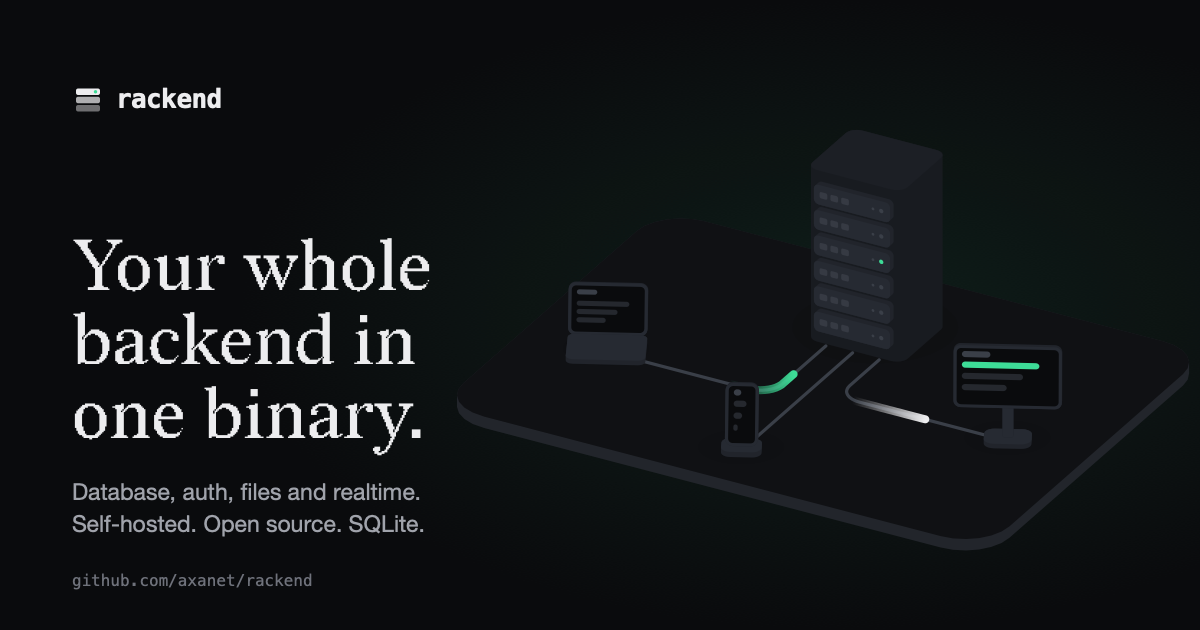
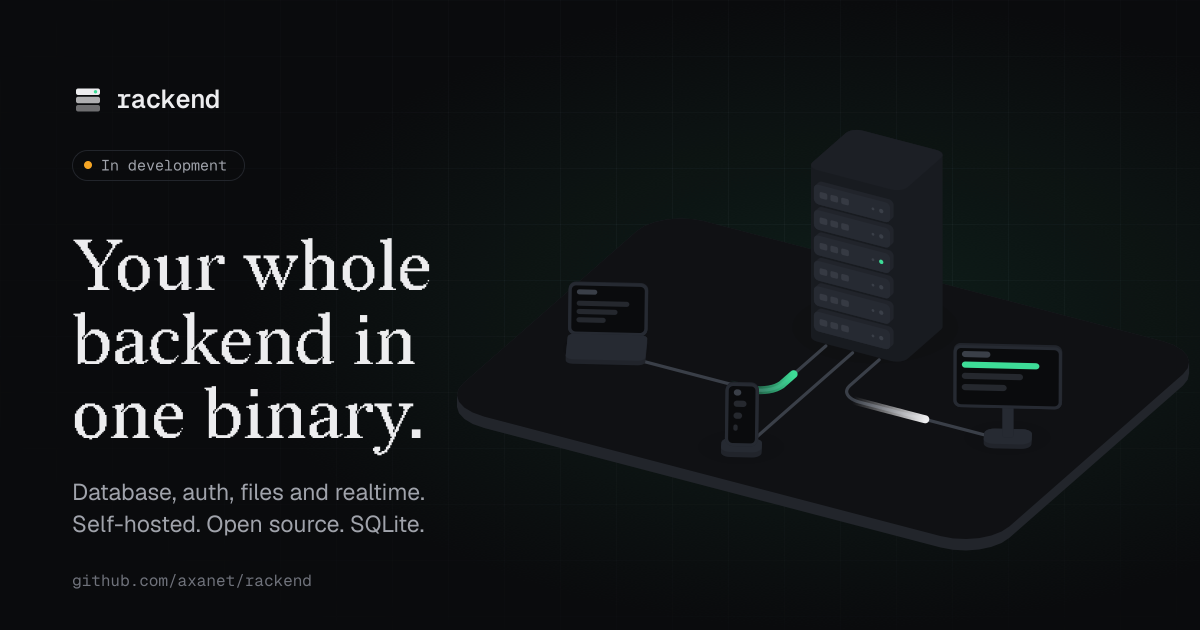
feat: link the 0.0.1 release, docs and changelog; brand fonts in the OG image
The hero pill shows the latest release and links its notes; the run
command pins its x.y image tag, as the docs do. Docs and Changelog link
to the now public repository instead of "soon". The quick start no
longer offers a binary download (releases ship the image) and shows the
server's real log lines; the storage list matches the deployment docs.

The OG image draws all text from Geist and Redaction outlines (static
Geist WOFF files from fontsource), adds the hero's status pill and grid,
and `bun scripts/og.ts out.png 1280x640` renders the GitHub social
preview of the main repository.

diff --git a/scripts/og.ts b/scripts/og.ts
@@ -1,13 +1,29 @@
 // Generates public/og.png (SVG rasterised with macOS `sips`) from the hero
-// scene. Run with `mise run og`.
+// scene. Run with `mise run og`. All text is drawn as outlines from the brand
+// fonts (sips can't load web fonts), so the card matches the site and the
+// README banner of the main repository.
+//
+//   bun scripts/og.ts [out.png] [WIDTHxHEIGHT]
+//
+// Defaults to public/og.png at 1200x630. The GitHub social preview of the
+// main repository is the same card at 1280x640:
+//   bun scripts/og.ts social-preview.png 1280x640
 import { $ } from "bun";
 import { tmpdir } from "node:os";
 import { join } from "node:path";
 import opentype from "opentype.js";
+import { SITE } from "../src/config/site";
 import { renderDiagram } from "../src/visual/diagram";
 
-const W = 1200, H = 630;
-const C = { bg: "#0a0b0d", fg: "#ededef", muted: "#a0a3ab", subtle: "#6f727b", accent: "#3ddc97" };
+const out = process.argv[2] ?? new URL("../public/og.png", import.meta.url).pathname;
+const [W, H] = (process.argv[3] ?? "1200x630").split("x").map(Number) as [number, number];
+// the layout is drawn for 1200x630; other sizes keep it centred vertically
+const dy = Math.round((H - 630) / 2);
+
+const C = {
+  bg: "#0a0b0d", fg: "#ededef", muted: "#a0a3ab", subtle: "#6f727b", accent: "#3ddc97", write: "#f5a524",
+  border: "#22252b", grid: "#16181c",
+};
 
 // the scene, drawn in the right-hand ~60% of the card
 const SCENE_W = 760;
@@ -24,40 +40,69 @@ const scene = renderDiagram(
     resp: C.fg,
     event: "#a78bfa",
   },
-  { width: SCENE_W, height: H, offset: [0, 10] },
+  { width: SCENE_W, height: 630, offset: [0, 10] },
 );
 
-const sans = `'Helvetica Neue', Helvetica, Arial, sans-serif`;
-// sips can't load web fonts, so the headline is drawn as outlines from the original OTF
-const display = opentype.loadSync(new URL("../src/assets/fonts/redaction/Redaction20-Regular.otf", import.meta.url).pathname);
-const mono = `Menlo, 'SF Mono', monospace`;
+const font = (path: string) => opentype.loadSync(new URL(path, import.meta.url).pathname);
+const display = font("../src/assets/fonts/redaction/Redaction20-Regular.otf");
+const sans = font("../node_modules/@fontsource/geist/files/geist-latin-400-normal.woff");
+const mono = font("../node_modules/@fontsource/geist-mono/files/geist-mono-latin-400-normal.woff");
+const monoSemi = font("../node_modules/@fontsource/geist-mono/files/geist-mono-latin-600-normal.woff");
+
+/** Text as an outline; `tracking` in em, as CSS letter-spacing. */
+const text = (f: opentype.Font, s: string, x: number, y: number, size: number, fill: string, tracking = 0) => {
+  let d = "";
+  let cx = x;
+  const glyphs = f.stringToGlyphs(s);
+  glyphs.forEach((g, i) => {
+    d += g.getPath(cx, y, size).toPathData(2);
+    cx += (g.advanceWidth! / f.unitsPerEm) * size + tracking * size;
+    const next = glyphs[i + 1];
+    if (next) cx += (f.getKerningValue(g, next) / f.unitsPerEm) * size;
+  });
+  return `<path d="${d}" fill="${fill}"/>`;
+};
+
+// status pill, as in the hero (without the release: the card outlives it)
+const pill = SITE.status ?? "";
+const pillSize = 15;
+const pillW = mono.getAdvanceWidth(pill, pillSize) + 46;
+const pillY = 150;
 
 const svg = `<svg xmlns="http://www.w3.org/2000/svg" width="${W}" height="${H}" viewBox="0 0 ${W} ${H}">
   <defs>
+    <pattern id="grid" width="56" height="56" patternUnits="userSpaceOnUse"><path d="M56 0H0V56" fill="none" stroke="${C.grid}" stroke-width="1"/></pattern>
+    <radialGradient id="fade" cx="62%" cy="40%" r="70%"><stop offset=".25" stop-color="#fff"/><stop offset="1" stop-color="#fff" stop-opacity="0"/></radialGradient>
+    <mask id="gridmask"><rect width="${W}" height="${H}" fill="url(#fade)"/></mask>
     <radialGradient id="glow" cx="70%" cy="50%" r="50%"><stop offset="0" stop-color="${C.accent}" stop-opacity=".09"/><stop offset="1" stop-color="${C.accent}" stop-opacity="0"/></radialGradient>
   </defs>
   <rect width="${W}" height="${H}" fill="${C.bg}"/>
+  <rect width="${W}" height="${H}" fill="url(#grid)" mask="url(#gridmask)"/>
   <rect width="${W}" height="${H}" fill="url(#glow)"/>
-  <g transform="translate(${W - SCENE_W + 10} 0)">${scene}</g>
+  <g transform="translate(${W - SCENE_W + 10} ${dy})">${scene}</g>
 
-  <g transform="translate(72 84)">
-    <rect x="4" y="4.5" width="24" height="6.5" rx="2" fill="${C.fg}"/>
-    <rect x="4" y="12.75" width="24" height="6.5" rx="2" fill="${C.fg}" opacity=".72"/>
-    <rect x="4" y="21" width="24" height="6.5" rx="2" fill="${C.fg}" opacity=".44"/>
-    <circle cx="23.5" cy="7.75" r="1.7" fill="${C.accent}"/>
-    <text x="44" y="24" font-family="${mono}" font-size="26" font-weight="600" fill="${C.fg}" letter-spacing="-0.5">rackend</text>
+  <g transform="translate(0 ${dy})">
+    <g transform="translate(72 84)">
+      <rect x="4" y="4.5" width="24" height="6.5" rx="2" fill="${C.fg}"/>
+      <rect x="4" y="12.75" width="24" height="6.5" rx="2" fill="${C.fg}" opacity=".72"/>
+      <rect x="4" y="21" width="24" height="6.5" rx="2" fill="${C.fg}" opacity=".44"/>
+      <circle cx="23.5" cy="7.75" r="1.7" fill="${C.accent}"/>
+    </g>
+    ${text(monoSemi, SITE.name, 116, 108, 26, C.fg, -0.03)}
+
+    ${pill ? `<rect x="72.5" y="${pillY + 0.5}" width="${pillW}" height="30" rx="15" fill="none" stroke="${C.border}"/>
+    <circle cx="${72 + 16}" cy="${pillY + 15}" r="4" fill="${C.write}"/>
+    ${text(mono, pill, 72 + 29, pillY + 20.5, pillSize, C.muted)}` : ""}
+
+    ${["Your whole", "backend in", "one binary."].map((l, i) => text(display, l, 72, 290 + i * 74, 72, C.fg)).join("\n    ")}
+    ${text(sans, "Database, auth, files and realtime.", 72, 500, 23, C.muted)}
+    ${text(sans, "Self-hosted. Open source. SQLite.", 72, 532, 23, C.muted)}
+    ${text(mono, SITE.repo.replace(/^https:\/\//, ""), 72, 586, 16, C.subtle)}
   </g>
-  ${["Your whole", "backend in", "one binary."]
-    .map((l, i) => `<path d="${display.getPath(l, 72, 290 + i * 74, 72, { kerning: true }).toPathData(2)}" fill="${C.fg}"/>`)
-    .join("")}
-  <text x="72" y="500" font-family="${sans}" font-size="23" fill="${C.muted}">Database, auth, files and realtime.</text>
-  <text x="72" y="532" font-family="${sans}" font-size="23" fill="${C.muted}">Self-hosted. Open source. SQLite.</text>
-  <text x="72" y="586" font-family="${mono}" font-size="16" fill="${C.subtle}">github.com/axanet/rackend</text>
 </svg>
 `;
 
 const svgPath = join(tmpdir(), "rackend-og.svg");
-const pngPath = new URL("../public/og.png", import.meta.url).pathname;
 await Bun.write(svgPath, svg);
-await $`sips -s format png ${svgPath} --out ${pngPath}`.quiet();
-console.log(`wrote ${pngPath}`);
+await $`sips -s format png ${svgPath} --out ${out}`.quiet();
+console.log(`wrote ${out} (${W}x${H})`);

diff --git a/src/config/site.ts b/src/config/site.ts
@@ -1,5 +1,10 @@
 // Single source of truth for site-wide facts. Change values here, not in components.
 
+// Latest rackend release; update it after each release. The hero links its
+// release notes and the run command pins its x.y image tag, as the docs do.
+const RELEASE = "0.0.1";
+const IMAGE = "ghcr.io/axanet/rackend";
+
 export const SITE = {
   name: "rackend",
   // TODO: final production domain. Used for canonical URLs, sitemap and Open Graph.
@@ -10,19 +15,20 @@ export const SITE = {
   pitch: "Your whole backend in one binary.",
   owner: "axanet GmbH",
   repo: "https://github.com/axanet/rackend",
-  image: "ghcr.io/axanet/rackend",
-  runCommand: "docker run -p 8080:8080 -v rackend_data:/data ghcr.io/axanet/rackend",
-  // Optional status badge in the hero, e.g. "Pre-alpha". `null` hides it.
-  status: "In Development",
+  image: IMAGE,
+  release: RELEASE,
+  runCommand: `docker run -p 8080:8080 -v rackend_data:/data ${IMAGE}:${RELEASE.split(".").slice(0, 2).join(".")}`,
+  // Optional status badge in the hero, next to the release, e.g. "Pre-alpha". `null` hides it.
+  status: "In development",
 } as const;
 
 export const LINKS = {
-  docs: "/docs",
-  changelog: "/changelog",
+  docs: `${SITE.repo}/blob/main/docs/guide/README.md`,
+  changelog: `${SITE.repo}/blob/main/CHANGELOG.md`,
   blog: "/blog",
   github: SITE.repo,
   releases: `${SITE.repo}/releases`,
-  // TODO: point at the real files once they exist in the main repo.
+  release: `${SITE.repo}/releases/tag/${SITE.release}`,
   license: `${SITE.repo}/blob/main/LICENSE`,
   security: `${SITE.repo}/security/policy`,
   pocketbase: "https://pocketbase.io",
@@ -34,6 +40,6 @@ export const NAV: { label: string; href: string; soon?: boolean }[] = [
   { label: "Features", href: "/#features" },
   { label: "Data safety", href: "/#data" },
   { label: "Quickstart", href: "/#quickstart" },
-  { label: "Docs", href: LINKS.docs, soon: true },
-  { label: "Changelog", href: LINKS.changelog, soon: true },
+  { label: "Docs", href: LINKS.docs },
+  { label: "Changelog", href: LINKS.changelog },
 ];
